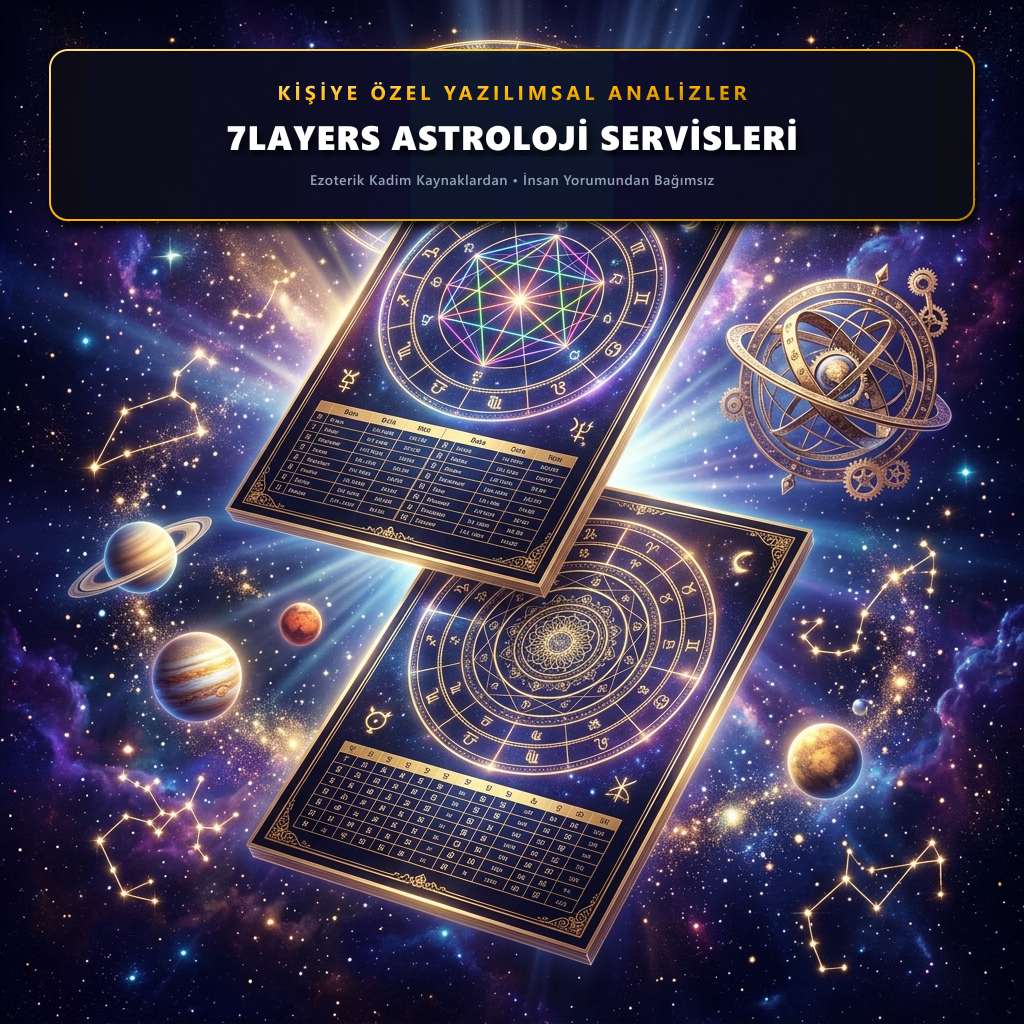
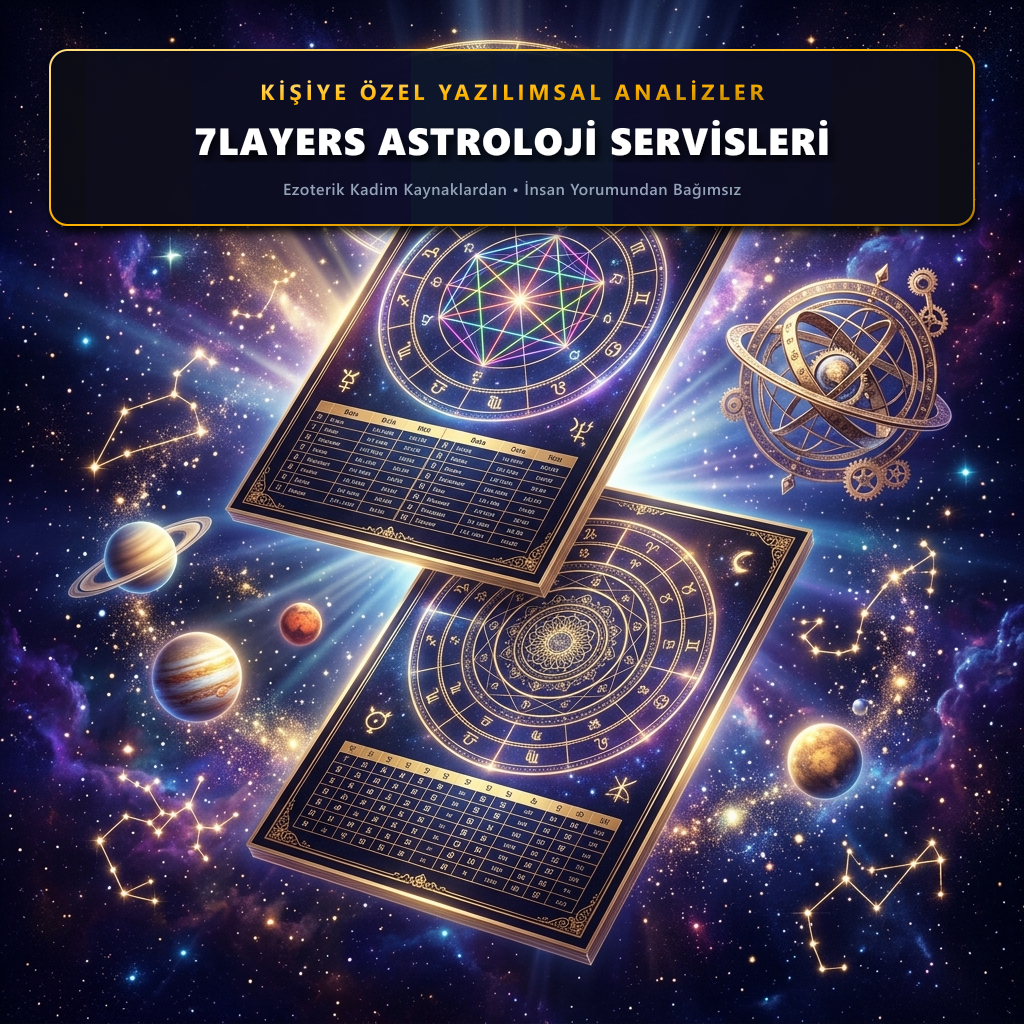
update: increase font sizes on story ad visual for enhanced mobile readability

Changed region(s): [[0.0938, 0.0625, 0.9375, 0.25], [0.9375, 0.1875, 0.9688, 0.2188], [0.0312, 0.1875, 0.0625, 0.2188]]

diff --git a/create_ad_overlay.js b/create_ad_overlay.js
@@ -12,7 +12,7 @@ async function main() {
 
   console.log(`Image dimensions: ${width}x${height}`);
 
-  // Create a stunning comparative vertical SVG overlay for stories (1080x1920)
+  // Create a stunning comparative vertical SVG overlay for stories (1080x1920) with larger mobile-friendly fonts
   const svgOverlay = `
     <svg width="${width}" height="${height}" viewBox="0 0 ${width} ${height}" xmlns="http://www.w3.org/2000/svg">
       <defs>
@@ -38,72 +38,72 @@ async function main() {
       </defs>
 
       <!-- Top Header Panel -->
-      <rect x="50" y="50" width="${width - 100}" height="170" rx="18" 
+      <rect x="50" y="50" width="${width - 100}" height="175" rx="18" 
             fill="url(#blueGrad)" stroke="url(#goldGrad)" stroke-width="2" filter="url(#shadow)" />
       
-      <text x="${width / 2}" y="100" font-family="'Segoe UI', Arial, sans-serif" font-size="20" font-weight="800" 
+      <text x="${width / 2}" y="100" font-family="'Segoe UI', Arial, sans-serif" font-size="22" font-weight="800" 
             fill="url(#goldGrad)" text-anchor="middle" letter-spacing="4">KİŞİYE ÖZEL YAZILIMSAL ANALİZLER</text>
             
-      <text x="${width / 2}" y="150" font-family="'Segoe UI', Arial, sans-serif" font-size="34" font-weight="900" 
+      <text x="${width / 2}" y="155" font-family="'Segoe UI', Arial, sans-serif" font-size="38" font-weight="900" 
             fill="#FFFFFF" text-anchor="middle" letter-spacing="1" filter="url(#shadow)">7LAYERS ASTROLOJİ SERVİSLERİ</text>
       
-      <text x="${width / 2}" y="185" font-family="'Segoe UI', Arial, sans-serif" font-size="14" font-weight="600" 
+      <text x="${width / 2}" y="195" font-family="'Segoe UI', Arial, sans-serif" font-size="16" font-weight="600" 
             fill="#94A3B8" text-anchor="middle" letter-spacing="0.5">Ezoterik Kadim Kaynaklardan • İnsan Yorumundan Bağımsız</text>
 
 
       <!-- BOTTOM BLOCK: Stacked Cards for Vertical Layout -->
 
       <!-- CARD 1: Klasik Doğum Haritası -->
-      <rect x="60" y="1160" width="${width - 120}" height="320" rx="20" 
+      <rect x="60" y="1130" width="${width - 120}" height="340" rx="20" 
             fill="url(#cardGrad)" stroke="rgba(212, 175, 55, 0.4)" stroke-width="2" filter="url(#shadow)" />
       
-      <rect x="85" y="1185" width="180" height="32" rx="6" fill="#1E293B" stroke="rgba(255, 255, 255, 0.1)" stroke-width="1" />
-      <text x="175" y="1205" font-family="'Segoe UI', Arial, sans-serif" font-size="12" font-weight="800" 
+      <rect x="85" y="1150" width="220" height="35" rx="6" fill="#1E293B" stroke="rgba(255, 255, 255, 0.1)" stroke-width="1" />
+      <text x="195" y="1173" font-family="'Segoe UI', Arial, sans-serif" font-size="15" font-weight="800" 
             fill="#94A3B8" text-anchor="middle" letter-spacing="1">YENİ BAŞLAYANLAR İÇİN</text>
             
-      <text x="85" y="1250" font-family="'Segoe UI', Arial, sans-serif" font-size="26" font-weight="900" 
+      <text x="85" y="1225" font-family="'Segoe UI', Arial, sans-serif" font-size="30" font-weight="900" 
             fill="#FFFFFF" text-anchor="start" letter-spacing="0.5">KLASİK DOĞUM HARİTASI</text>
       
       <!-- Bullet Points Left -->
-      <circle cx="95" cy="1295" r="4.5" fill="url(#goldGrad)" />
-      <text x="115" y="1300" font-family="'Segoe UI', Arial, sans-serif" font-size="16" font-weight="700" fill="#E2E8F0">Karakter ve Potansiyeller Analizi</text>
+      <circle cx="95" cy="1270" r="6" fill="url(#goldGrad)" />
+      <text x="115" y="1276" font-family="'Segoe UI', Arial, sans-serif" font-size="20" font-weight="700" fill="#E2E8F0">Karakter ve Potansiyeller Analizi</text>
 
-      <circle cx="95" cy="1330" r="4.5" fill="url(#goldGrad)" />
-      <text x="115" y="1335" font-family="'Segoe UI', Arial, sans-serif" font-size="16" font-weight="700" fill="#E2E8F0">Kariyer, İlişkiler ve Sağlık Hayatı</text>
+      <circle cx="95" cy="1310" r="6" fill="url(#goldGrad)" />
+      <text x="115" y="1316" font-family="'Segoe UI', Arial, sans-serif" font-size="20" font-weight="700" fill="#E2E8F0">Kariyer, İlişkiler ve Sağlık Hayatı</text>
 
-      <circle cx="95" cy="1365" r="4.5" fill="url(#goldGrad)" />
-      <text x="115" y="1370" font-family="'Segoe UI', Arial, sans-serif" font-size="16" font-weight="700" fill="#E2E8F0">Gezegen Konumları ve Ev Yerleşimleri</text>
+      <circle cx="95" cy="1350" r="6" fill="url(#goldGrad)" />
+      <text x="115" y="1356" font-family="'Segoe UI', Arial, sans-serif" font-size="20" font-weight="700" fill="#E2E8F0">Gezegen Konumları ve Ev Yerleşimleri</text>
       
-      <foreignObject x="85" y="1405" width="910" height="60">
-        <div xmlns="http://www.w3.org/1999/xhtml" style="font-family: 'Segoe UI', Arial, sans-serif; font-size: 14px; color: #94A3B8; font-weight: 500; line-height: 1.4; text-align: left;">
+      <foreignObject x="85" y="1390" width="800" height="65">
+        <div xmlns="http://www.w3.org/1999/xhtml" style="font-family: 'Segoe UI', Arial, sans-serif; font-size: 17px; color: #94A3B8; font-weight: 500; line-height: 1.4; text-align: left;">
           Astrolojiye yeni başlayanlar için en sade, net ve anlaşılır dünyevi rehberlik dökümanı.
         </div>
       </foreignObject>
 
 
       <!-- CARD 2: 4 Katmanlı Ezoterik Harita -->
-      <rect x="60" y="1520" width="${width - 120}" height="320" rx="20" 
+      <rect x="60" y="1490" width="${width - 120}" height="340" rx="20" 
             fill="url(#cardGrad)" stroke="url(#goldGrad)" stroke-width="2.5" filter="url(#shadow)" />
 
-      <rect x="85" y="1545" width="180" height="32" rx="6" fill="#1E293B" stroke="url(#goldGrad)" stroke-width="1.5" />
-      <text x="175" y="1565" font-family="'Segoe UI', Arial, sans-serif" font-size="12" font-weight="800" 
+      <rect x="85" y="1510" width="220" height="35" rx="6" fill="#1E293B" stroke="url(#goldGrad)" stroke-width="1.5" />
+      <text x="195" y="1533" font-family="'Segoe UI', Arial, sans-serif" font-size="15" font-weight="800" 
             fill="url(#goldGrad)" text-anchor="middle" letter-spacing="1">İLERİ SEVİYE / ANALİZ</text>
 
-      <text x="85" y="1610" font-family="'Segoe UI', Arial, sans-serif" font-size="26" font-weight="900" 
+      <text x="85" y="1585" font-family="'Segoe UI', Arial, sans-serif" font-size="30" font-weight="900" 
             fill="url(#goldGrad)" text-anchor="start" letter-spacing="0.5">4 KATMANLI EZOTERİK HARİTA</text>
 
       <!-- Bullet Points Right -->
-      <circle cx="95" cy="1655" r="4.5" fill="url(#goldGrad)" />
-      <text x="115" y="1660" font-family="'Segoe UI', Arial, sans-serif" font-size="16" font-weight="700" fill="#E2E8F0">Ruhun Evrimi ve Tekamül Yolculuğu</text>
+      <circle cx="95" cy="1630" r="6" fill="url(#goldGrad)" />
+      <text x="115" y="1636" font-family="'Segoe UI', Arial, sans-serif" font-size="20" font-weight="700" fill="#E2E8F0">Ruhun Evrimi ve Tekamül Yolculuğu</text>
 
-      <circle cx="95" cy="1690" r="4.5" fill="url(#goldGrad)" />
-      <text x="115" y="1695" font-family="'Segoe UI', Arial, sans-serif" font-size="16" font-weight="700" fill="#E2E8F0">Geçmiş Yaşam Karmaları ve Ay Düğümleri</text>
+      <circle cx="95" cy="1670" r="6" fill="url(#goldGrad)" />
+      <text x="115" y="1676" font-family="'Segoe UI', Arial, sans-serif" font-size="20" font-weight="700" fill="#E2E8F0">Geçmiş Yaşam Karmaları ve Ay Düğümleri</text>
 
-      <circle cx="95" cy="1725" r="4.5" fill="url(#goldGrad)" />
-      <text x="115" y="1730" font-family="'Segoe UI', Arial, sans-serif" font-size="16" font-weight="700" fill="#E2E8F0">4 Alem (Assiah, Yetzirah, Briah, Atziluth)</text>
+      <circle cx="95" cy="1710" r="6" fill="url(#goldGrad)" />
+      <text x="115" y="1716" font-family="'Segoe UI', Arial, sans-serif" font-size="20" font-weight="700" fill="#E2E8F0">4 Alem (Assiah, Yetzirah, Briah, Atziluth)</text>
       
-      <foreignObject x="85" y="1765" width="910" height="60">
-        <div xmlns="http://www.w3.org/1999/xhtml" style="font-family: 'Segoe UI', Arial, sans-serif; font-size: 14px; color: #94A3B8; font-weight: 500; line-height: 1.4; text-align: left;">
+      <foreignObject x="85" y="1750" width="800" height="65">
+        <div xmlns="http://www.w3.org/1999/xhtml" style="font-family: 'Segoe UI', Arial, sans-serif; font-size: 17px; color: #94A3B8; font-weight: 500; line-height: 1.4; text-align: left;">
           Ruhsal ve derin karmik arayışta olanlar, hayat amacını ve ilahi misyonunu arayanlar için ideal.
         </div>
       </foreignObject>
